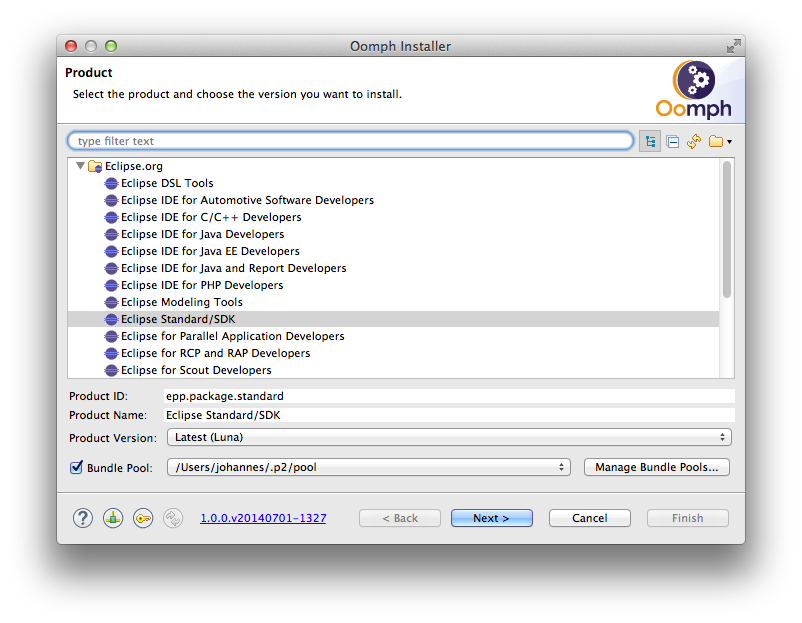
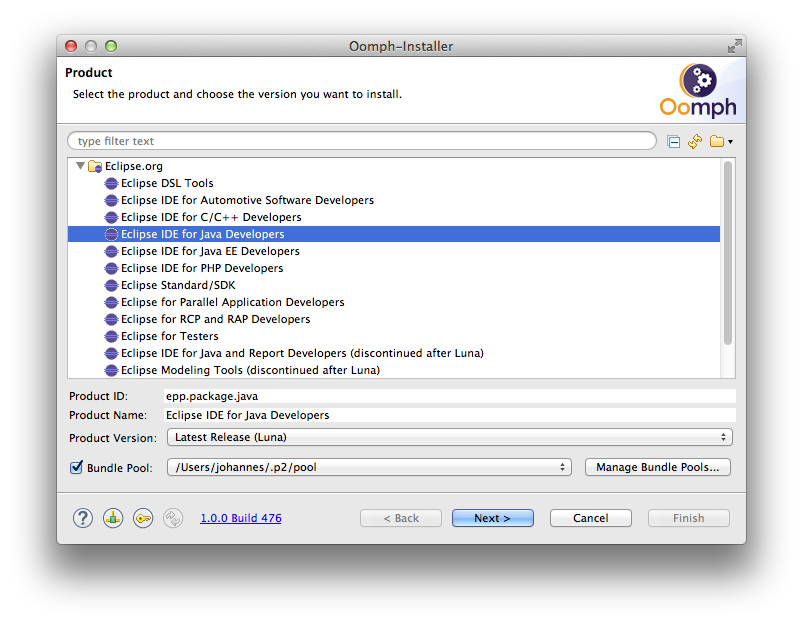
[docs] Bug 445349: Improve contributor guide

diff --git a/CONTRIBUTING.md b/CONTRIBUTING.md
@@ -80,17 +80,31 @@ Oomph will setup an up-to-date Eclipse IDE, install required and useful plugins,
 ![Selecting an Eclipse Product to install](../plain/CONTRIBUTING/oomph-product-selection.png)
 
 To get started with Oomph, [download the installer](https://wiki.eclipse.org/Eclipse_Oomph_Installer#Installation) and execute it.
-Select the Eclipse product and version you wish to install, e. g. `Eclipse Standard/SKDK` or `Eclipse IDE for Java Developers`.
+Select the Eclipse product and version you wish to install, e. g. `Eclipse IDE for Java Developers`.
 From the list of preconfigured projects double-click `Code Recommenders/Core` and click on `Next`.
 
 ![Setting up Eclipse for work on Code Recommenders with Oomph](../plain/CONTRIBUTING/oomph-recommenders.png)
 
-Follow the instructions that ask you for your login data to Eclipse servers.
+You will need to supply Oomph with some information to setup an Eclipse installation for you.
+Some of these settings, like folder locations or names are entirely up to you.
+Leave `Target Platform:` at `None`.
+For the `Recommenders Git or Gerrit Repository:` you can choose `SSH (read-write, Gerrit)`.
+You need to [add your SSH public key](https://git.eclipse.org/r/#/settings/ssh-keys) to your Eclipse Gerrit account.
+Alternatively, you can choose `HTTPS (read-write, Gerrit)`.
+In that case, you need to [generate a HTTP password](https://git.eclipse.org/r/#/settings/http-password) for authentication.
+The `Eclipse user ID for Bugzilla/Hudson:` is the e-mail address of your eclipse.org account.
+The `Debug Port:` allows you to [remotely debug](http://javarevisited.blogspot.de/2011/02/how-to-setup-remote-debugging-in.html) the installed Eclipse.
+**Important:** No two Eclipse instances can run with the same debug port simultaneously; ensure that each instance uses its own port.
+The `Eclipse Git/Gerrit user ID:` is the username of your eclipse.org account.
+When you are done, press `Next`.
+
+![Setting up Eclipse for work on Code Recommenders with Oomph](../plain/CONTRIBUTING/oomph-variables.png)
+
 The installation may take several minutes.
 The freshly installed Eclipse will open during installation and automatically configure itself to let you work on Code Recommenders.
 
 You are now set up to contribute code of your own to Eclipse Code Recommenders.
-To test your contributions, just start an Eclipse runtime via the `tools/ide.product` product configuration file residing in the `org.eclipse.recommenders` project.
+To test your contributions, just start an Eclipse runtime via the `tools/sdk.product` product configuration file residing in the `org.eclipse.recommenders` project.
 
 Once you have done some changes to the code, you can submit your changes to Gerrit, where Code Recommenders committers can review your change.
 To do so, right click on the `org.eclipse.recommenders` project and select `Team/Commit…`.
